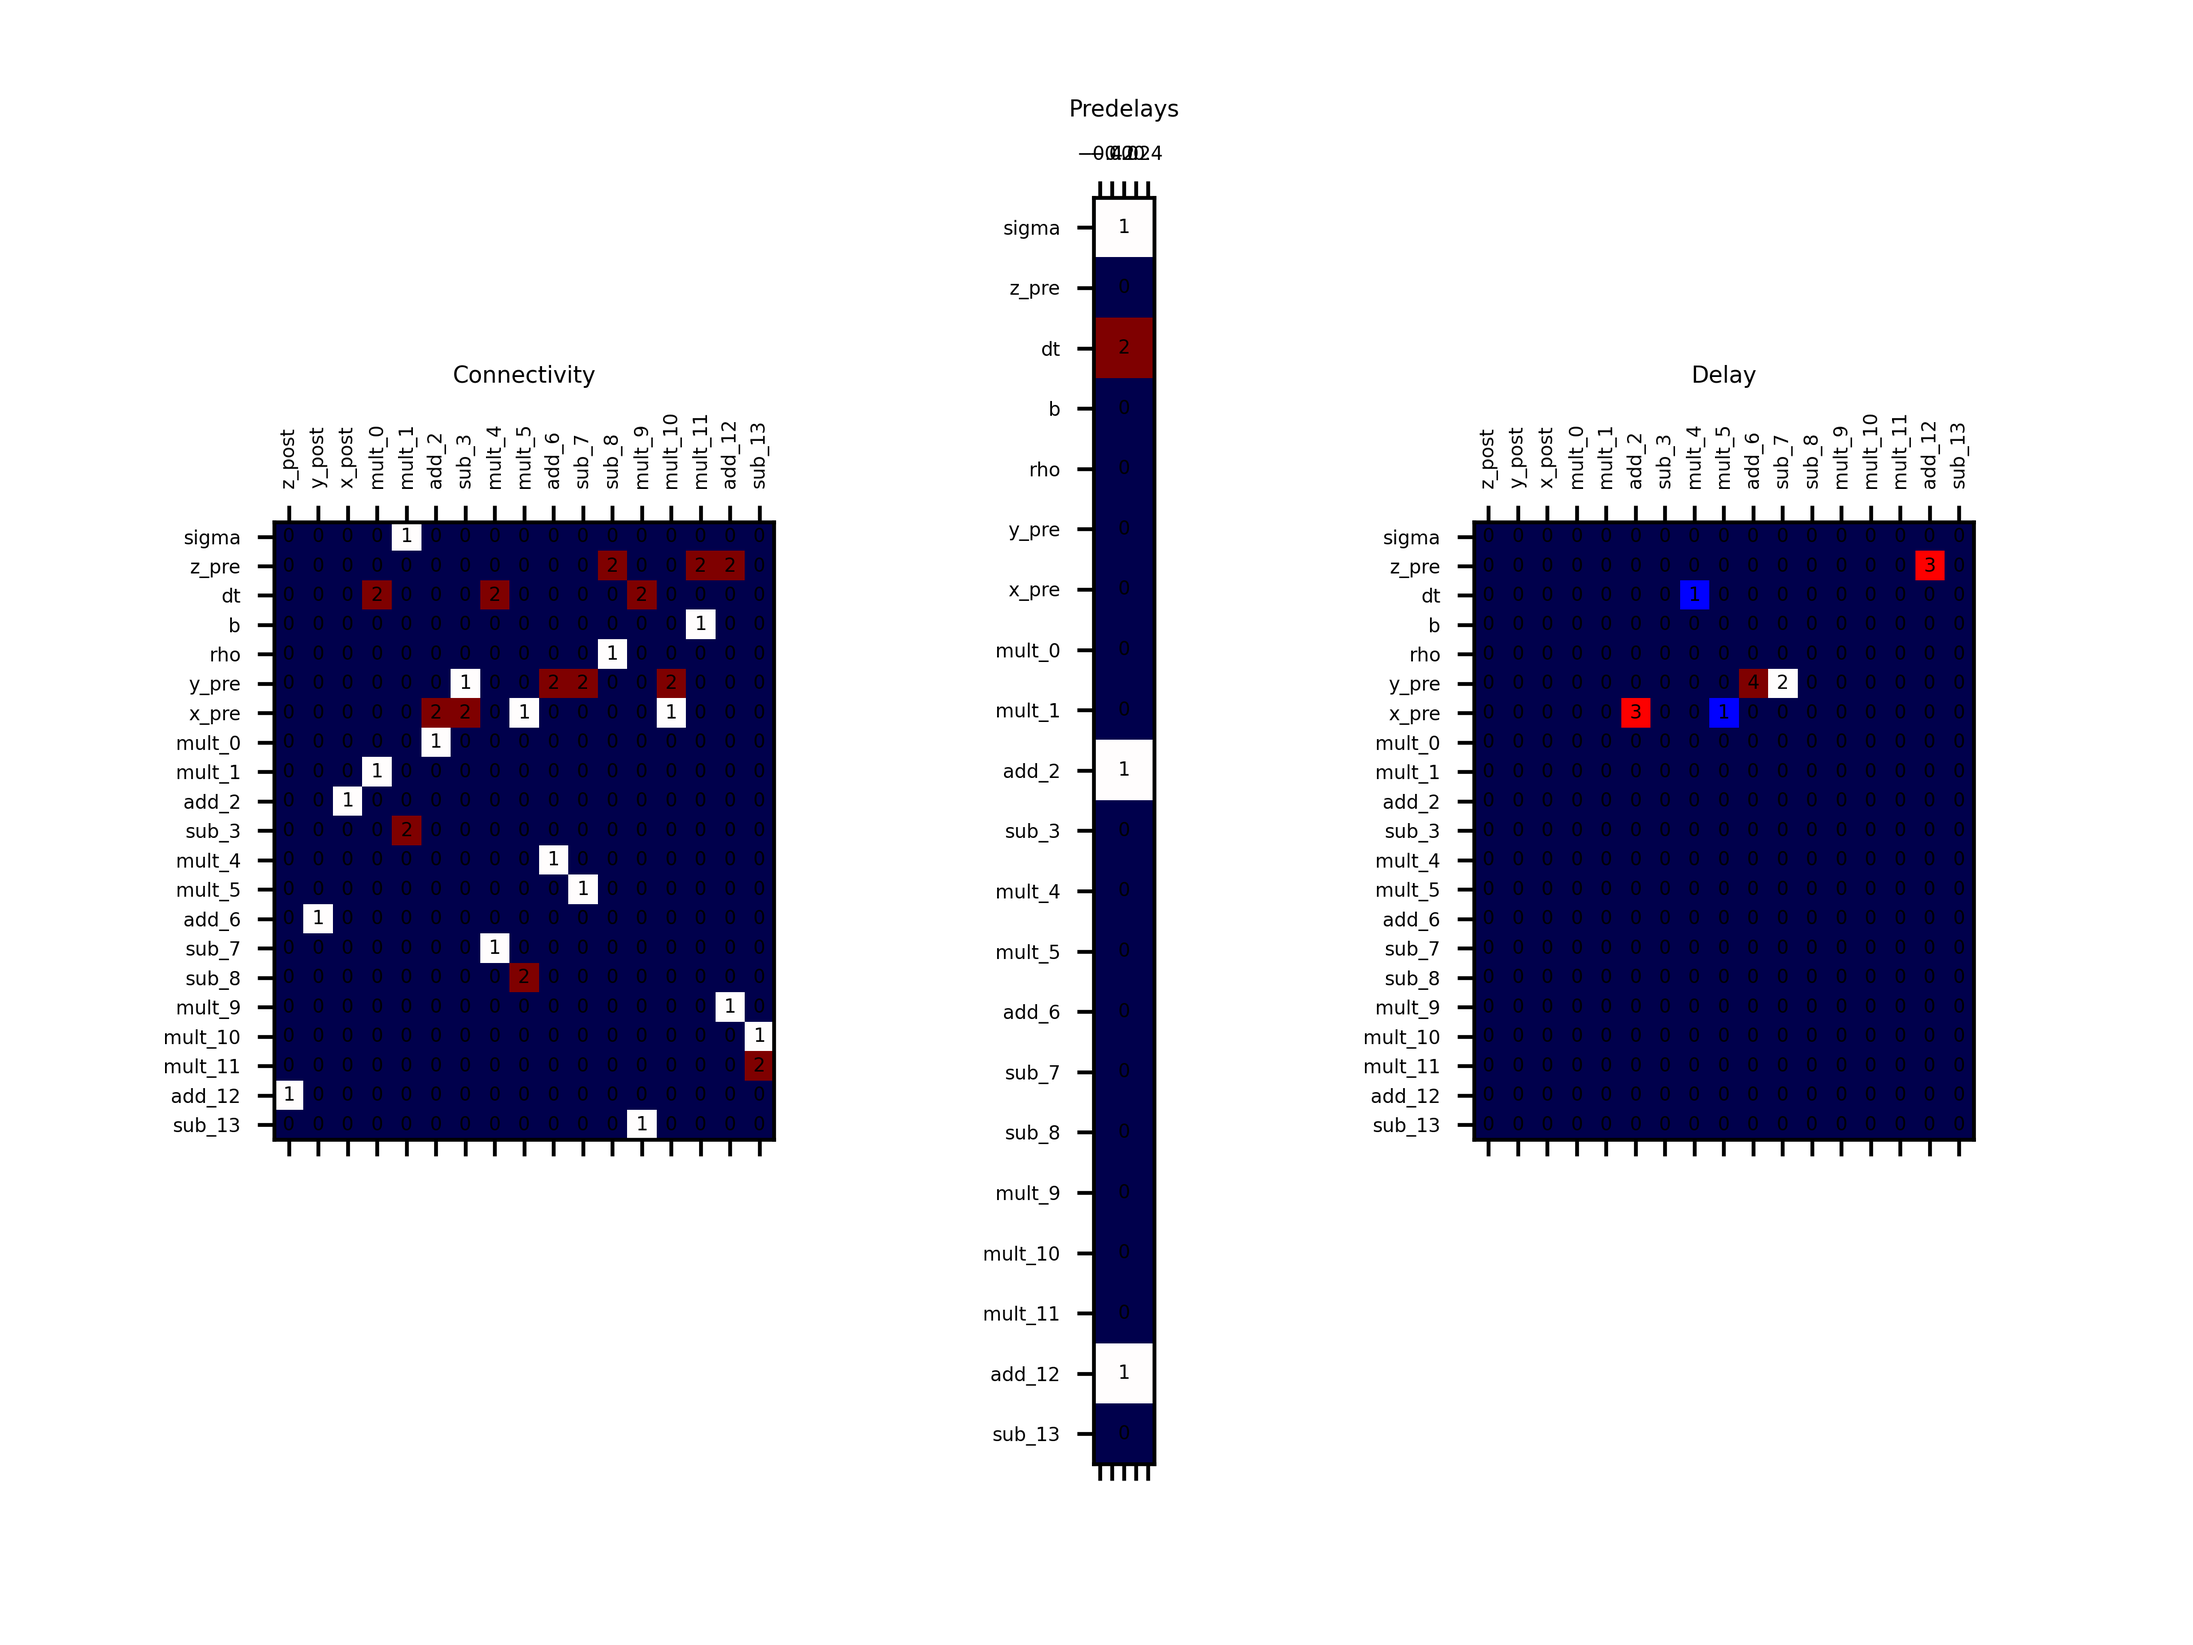
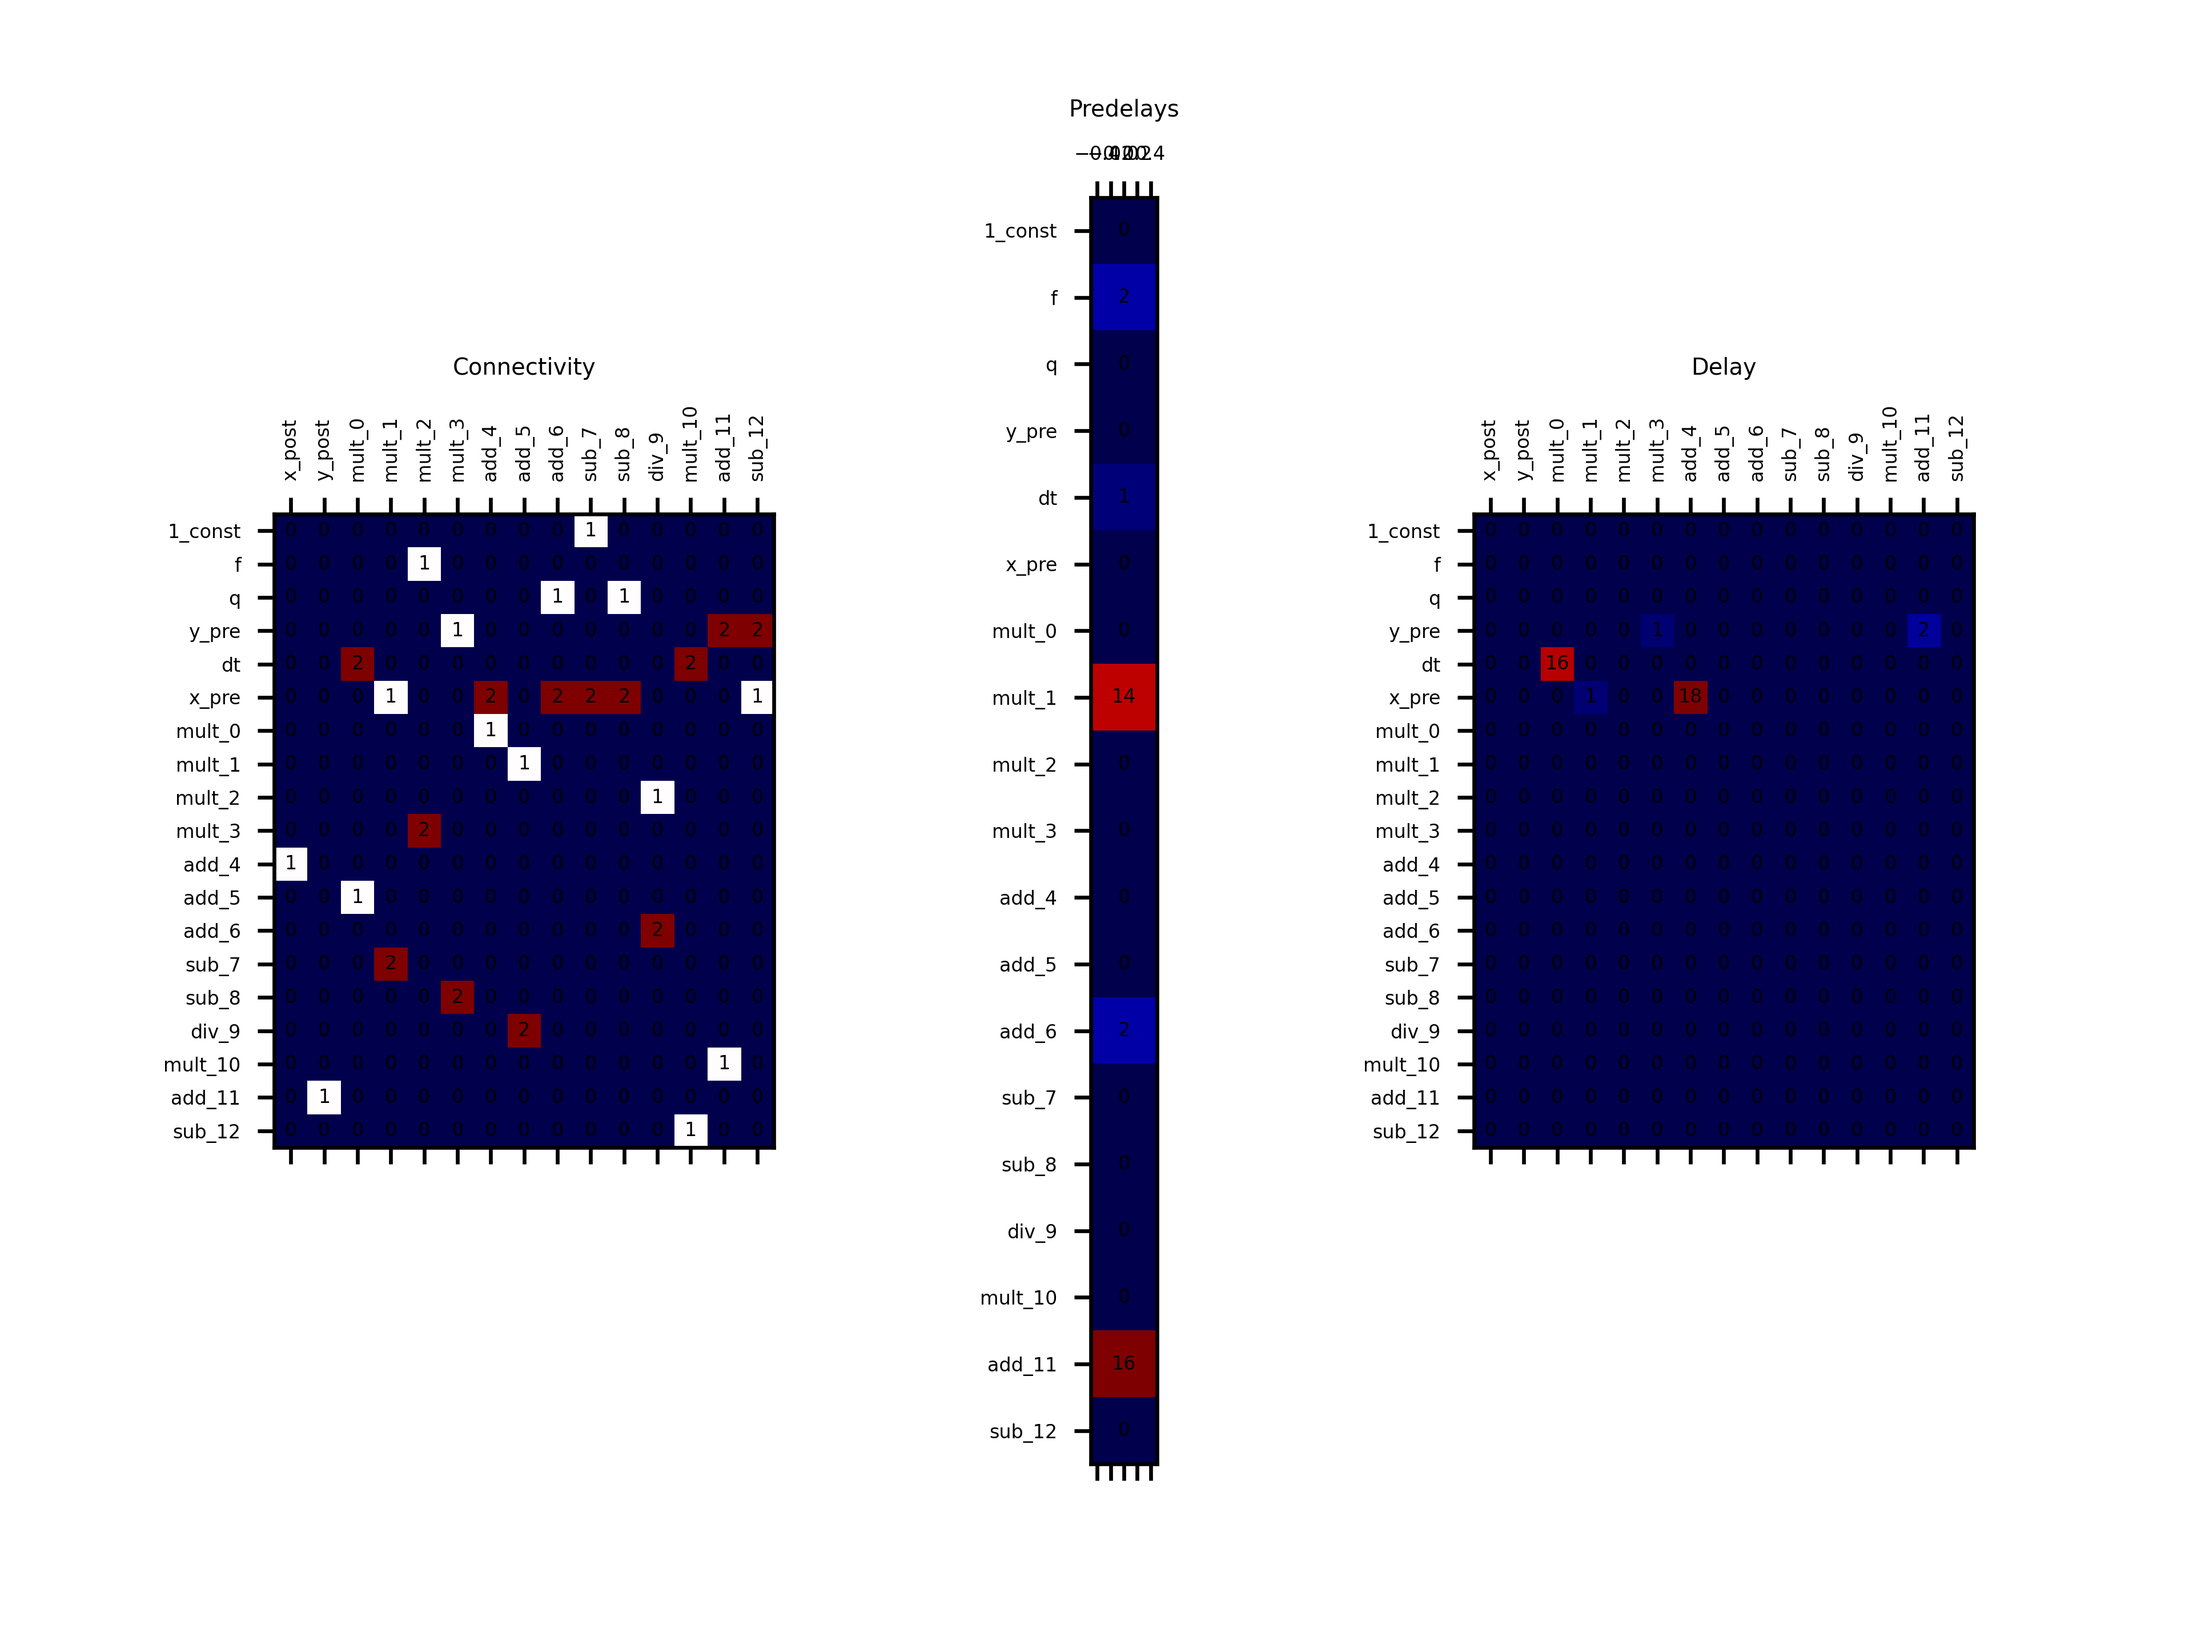
Fixed operand selection bug in compiler

Changed region(s): [[0.0625, 0.2188, 0.375, 0.7188], [0.625, 0.2188, 0.9062, 0.7188], [0.4375, 0.0938, 0.5312, 0.9062]]

diff --git a/monarch/parsers/asm_compiler.py b/monarch/parsers/asm_compiler.py
@@ -7,7 +7,7 @@ def allocate_core_instr(conn_mat, source_nodes, sink_nodes, reg_map, completed=[
 
     # Get the list of available results that can be computed.
     # If valid, it is an intermediate result that has been computed.
-    avail_dat = [x["d"] for x in reg_map if x["d"] if x["s"] == "valid"]
+    avail_dat = [x["d"] for x in reg_map if x["s"] == "valid"]
 
     comp_source_ops = True
     sink_i = -1
@@ -33,13 +33,14 @@ def allocate_core_instr(conn_mat, source_nodes, sink_nodes, reg_map, completed=[
                     comp_source_ops = False
             else:
                 comp_source_ops = True
-        
+                break
+    
     op   = sink_nodes[sink_i].split("_")[0]
     in_0 = source_nodes[np.where(target_column == 1.0)][0]
     in_1 = source_nodes[np.where(target_column == 2.0)][0]
     out  = sink_nodes[sink_i]
     completed.append(sink_i)
-
+    
     return [op, in_0, in_1, out], completed
 
 def find_terminal_instrs(conn_mat, source_nodes, sink_nodes):
@@ -174,7 +175,6 @@ def instr_to_machcode(instr, dbs):
     reg_width = dbs["manycore_params"]["machcode_params"]['reg_ptr_width']
     if op_dat["type"] == "3r":
         # This instruction has two input register operands and one output register.
-        
         in_reg_0_bin = reg_ptr_to_bin(instr[1], reg_width)
         in_reg_1_bin = reg_ptr_to_bin(instr[2], reg_width)
         out_reg_bin  = reg_ptr_to_bin(instr[3], reg_width)

diff --git a/monarch/parsers/hardware_objs.py b/monarch/parsers/hardware_objs.py
@@ -286,7 +286,8 @@ class ManycoreUnit:
         self.output_regs = dbs['manycore_params']['output_regs']
 
         asm = self.compile_instrs()
-        machine_code = self.asm_to_machcode(asm)
+        
+        self.asm_to_machcode(asm)
 
     def compile_instrs(self):
         
@@ -336,7 +337,7 @@ class ManycoreUnit:
 
             # Determine which instruction results in the register map are 
             # stale and can be overwritten with a new instruction.
-            reg_map =find_stale_results(
+            reg_map = find_stale_results(
                 reg_map,
                 self.graph_unit.conn_mat,
                 self.graph_unit.source_nodes,
@@ -377,7 +378,7 @@ class ManycoreUnit:
             for i, new_instr in enumerate(new_instrs):
                 asm_instr = instr_to_asm(new_instr, reg_map)
                 asm[i].append(asm_instr)
-        
+
         return asm
     
     def asm_to_machcode(self, asm):

diff --git a/monarch/test_compiler.py b/monarch/test_compiler.py
@@ -139,12 +139,13 @@ def duplicate_test():
 
 if __name__ == "__main__":
 
-    test_equ, args, init_state = lorenz_attractor()
+    test_equ, args, init_state = oregonator_model()
 
     dt = 1.0/128.0
     compiled_cfg = eq_to_cfg(test_equ)
 
     pipelined_cfg = cfg_to_pipeline(compiled_cfg)
+    #pipelined_cfg.show_report()
     hardware_unit = ManycoreUnit(pipelined_cfg, args, init_state, dt=dt)
 
 
